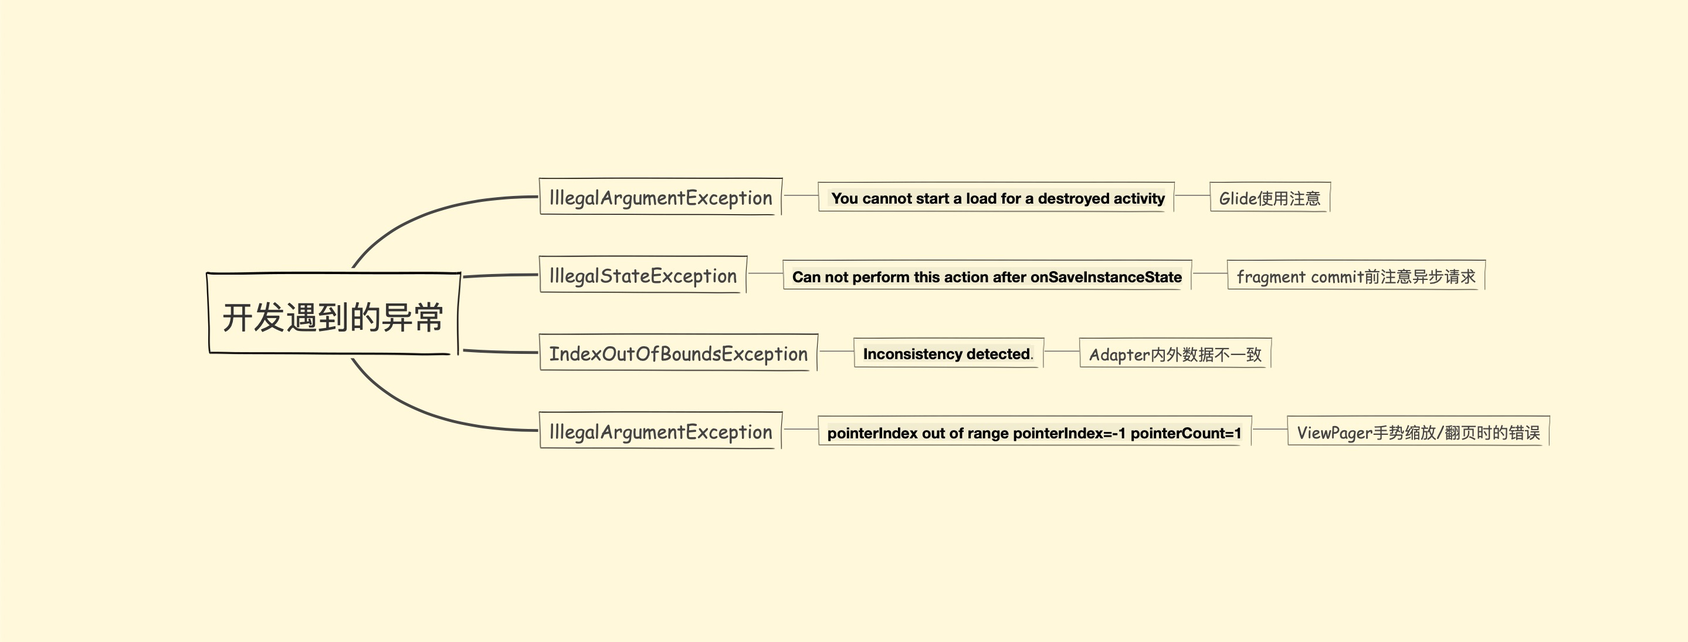
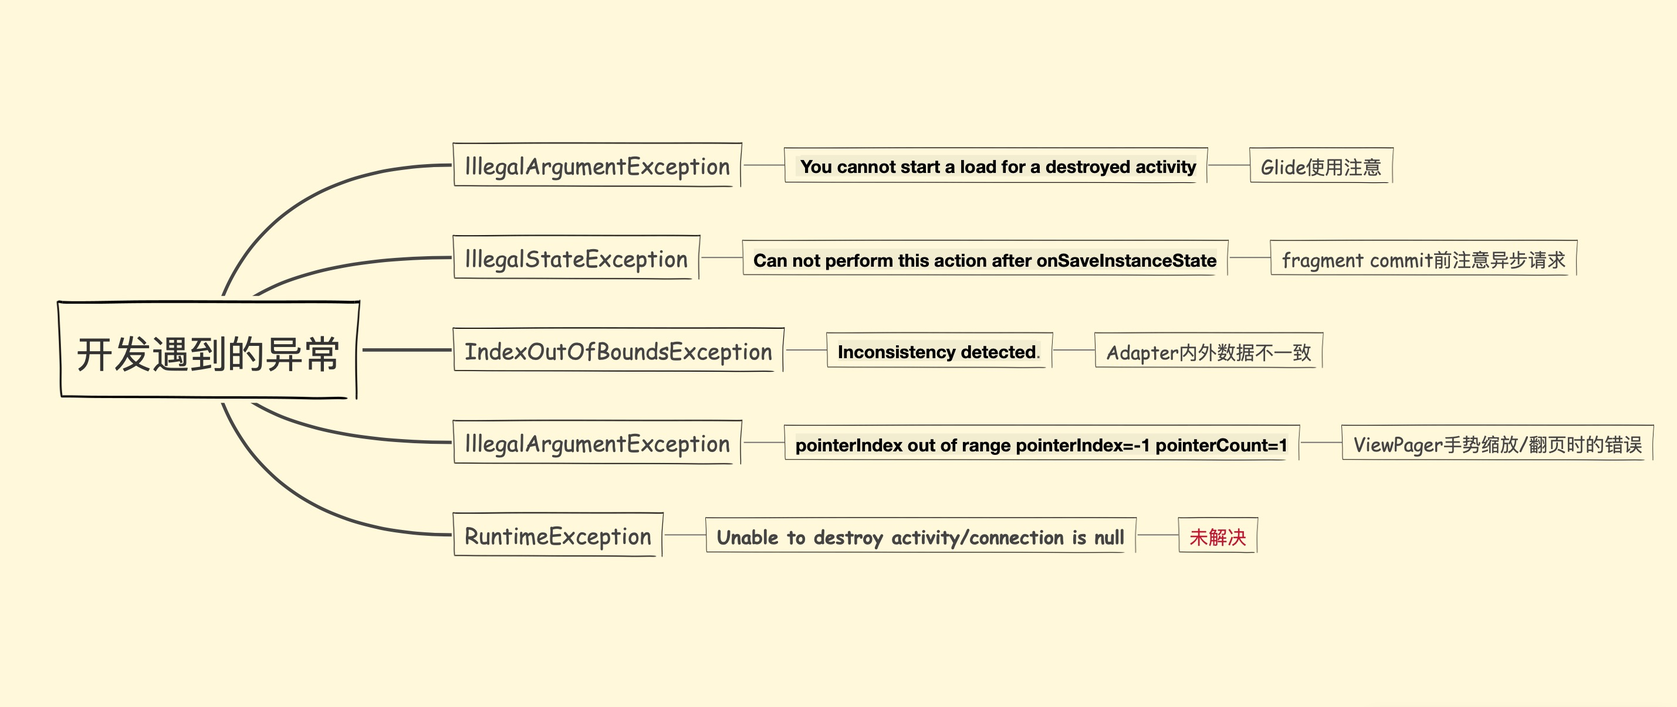
Site updated: 2019-12-31 12:02:57

diff --git a/2019/12/26/Android开发遇到的异常整理/index.html b/2019/12/26/Android开发遇到的异常整理/index.html
@@ -194,9 +194,7 @@
         <div class="post-content">
             <h3 id="前言"><a href="#前言" class="headerlink" title="前言"></a>前言</h3><p>记录在开发过程中遇到的不好找到问题的崩溃异常。</p>
 <h3 id="目录"><a href="#目录" class="headerlink" title="目录"></a>目录</h3><p><img src="/2019/12/26/Android%E5%BC%80%E5%8F%91%E9%81%87%E5%88%B0%E7%9A%84%E5%BC%82%E5%B8%B8%E6%95%B4%E7%90%86/%E7%9B%AE%E5%BD%95%E7%BB%93%E6%9E%84.jpg" alt="目录结构"></p>
-<h3 id="IllegalArgumentException"><a href="#IllegalArgumentException" class="headerlink" title="IllegalArgumentException"></a>IllegalArgumentException</h3><blockquote>
-<p>java.lang.IllegalArgumentException: <strong>You cannot start a load for a destroyed activity</strong><br>   at com.bumptech.glide.manager.RequestManagerRetriever.assertNotDestroyed(RequestManagerRetriever.java:134)<br>   at com.bumptech.glide.manager.RequestManagerRetriever.get(RequestManagerRetriever.java:102)<br>   at com.bumptech.glide.Glide.with(Glide.java:653)</p>
-</blockquote>
+<h3 id="IllegalArgumentException"><a href="#IllegalArgumentException" class="headerlink" title="IllegalArgumentException"></a>IllegalArgumentException</h3><figure class="highlight plain"><table><tr><td class="gutter"><pre><span class="line">1</span><br><span class="line">2</span><br><span class="line">3</span><br><span class="line">4</span><br></pre></td><td class="code"><pre><span class="line">java.lang.IllegalArgumentException: You cannot start a load for a destroyed activity</span><br><span class="line">   at com.bumptech.glide.manager.RequestManagerRetriever.assertNotDestroyed(RequestManagerRetriever.java:134)</span><br><span class="line">   at com.bumptech.glide.manager.RequestManagerRetriever.get(RequestManagerRetriever.java:102)</span><br><span class="line">   at com.bumptech.glide.Glide.with(Glide.java:653)</span><br></pre></td></tr></table></figure>
 <h5 id="场景"><a href="#场景" class="headerlink" title="场景"></a>场景</h5><pre><code>当你的Activity重新创建并且Glide中的context是旧的时候，最容易出现。
 换言之，context已经不在，但是异步处理刚回调到主线程更新UI，便会报异常</code></pre><h5 id="解决"><a href="#解决" class="headerlink" title="解决"></a>解决</h5><pre><code>问题发生在当前组件的上下文对象(Context)已经不存在，即围绕context做处理</code></pre><ul>
 <li><strong>方案一</strong><br>  使用控件的context，比如adapter中   <figure class="highlight plain"><table><tr><td class="gutter"><pre><span class="line">1</span><br></pre></td><td class="code"><pre><span class="line">viewholder.imag.getContext()</span><br></pre></td></tr></table></figure></li>
@@ -207,14 +205,10 @@
 </li>
 </ul>
 <hr>
-<h3 id="IllegalStateException"><a href="#IllegalStateException" class="headerlink" title="IllegalStateException"></a>IllegalStateException</h3><blockquote>
-<p>java.lang.IllegalStateException: <strong>Can not perform this action after onSaveInstanceState</strong><br>    at android.support.v4.app.FragmentManagerImpl.checkStateLoss(FragmentManager.java:2080)<br>    at android.support.v4.app.FragmentManagerImpl.enqueueAction(FragmentManager.java:2106)<br>    at android.support.v4.app.BackStackRecord.commitInternal(BackStackRecord.java:683)<br>    at android.support.v4.app.BackStackRecord.commit(BackStackRecord.java:637)<br>    …</p>
-</blockquote>
+<h3 id="IllegalStateException"><a href="#IllegalStateException" class="headerlink" title="IllegalStateException"></a>IllegalStateException</h3><figure class="highlight plain"><table><tr><td class="gutter"><pre><span class="line">1</span><br><span class="line">2</span><br><span class="line">3</span><br><span class="line">4</span><br><span class="line">5</span><br><span class="line">6</span><br></pre></td><td class="code"><pre><span class="line">java.lang.IllegalStateException: Can not perform this action after onSaveInstanceState</span><br><span class="line">    at android.support.v4.app.FragmentManagerImpl.checkStateLoss(FragmentManager.java:2080)</span><br><span class="line">    at android.support.v4.app.FragmentManagerImpl.enqueueAction(FragmentManager.java:2106)</span><br><span class="line">    at android.support.v4.app.BackStackRecord.commitInternal(BackStackRecord.java:683)</span><br><span class="line">    at android.support.v4.app.BackStackRecord.commit(BackStackRecord.java:637)</span><br><span class="line">    ...</span><br></pre></td></tr></table></figure>
 <h5 id="场景-1"><a href="#场景-1" class="headerlink" title="场景"></a>场景</h5><pre><code>该异常发生FragmentManager的commit方法是在Activity的onSaveInstanceState()之后调用时发生。（在commit之前进行了异步请求）
 原因是onSaveInstanceState()是在onDestroy()前调用来保存数据的，之后便不能再commit，故出错。</code></pre><h5 id="解决-1"><a href="#解决-1" class="headerlink" title="解决"></a>解决</h5><pre><code>commit()替换为commitAllowingStateLoss()</code></pre><hr>
-<h3 id="IndexOutOfBoundsException（Inconsistency-detected）"><a href="#IndexOutOfBoundsException（Inconsistency-detected）" class="headerlink" title="IndexOutOfBoundsException（Inconsistency detected）"></a>IndexOutOfBoundsException（Inconsistency detected）</h3><blockquote>
-<p>java.lang.IndexOutOfBoundsException: <strong>Inconsistency detected</strong>. Invalid view holder adapter positionViewHolder{2064e5c6 position=2 id=-1, oldPos=2, pLpos:-1 scrap [attachedScrap] tmpDetached no parent}<br>at android.support.v7.widget.RecyclerView Recycler.validateViewHolderForOffsetPosition(RecyclerView.java:4505)<br>at android.support.v7.widget.RecyclerView Recycler.getViewForPosition(RecyclerView.java:4636)<br>at android.support.v7.widget.RecyclerView Recycler.getViewForPosition(RecyclerView.java:4617)<br>at android.support.v7.widget.LinearLayoutManager$LayoutState.next(LinearLayoutManager.java:1994)<br>at android.support.v7.widget.LinearLayoutManager.layoutChunk(LinearLayoutManager.java:1390)<br>at android.support.v7.widget.LinearLayoutManager.fill(LinearLayoutManager.java:1353)<br>at android.support.v7.widget.LinearLayoutManager.onLayoutChildren(LinearLayoutManager.java:574)<br>at android.support.v7.widget.RecyclerView.dispatchLayoutStep1(RecyclerView.java:2979)<br>…</p>
-</blockquote>
+<h3 id="IndexOutOfBoundsException（Inconsistency-detected）"><a href="#IndexOutOfBoundsException（Inconsistency-detected）" class="headerlink" title="IndexOutOfBoundsException（Inconsistency detected）"></a>IndexOutOfBoundsException（Inconsistency detected）</h3><figure class="highlight plain"><table><tr><td class="gutter"><pre><span class="line">1</span><br><span class="line">2</span><br><span class="line">3</span><br><span class="line">4</span><br><span class="line">5</span><br><span class="line">6</span><br><span class="line">7</span><br><span class="line">8</span><br><span class="line">9</span><br><span class="line">10</span><br></pre></td><td class="code"><pre><span class="line">java.lang.IndexOutOfBoundsException: Inconsistency detected. Invalid view holder adapter positionViewHolder&#123;2064e5c6 position=2 id=-1, oldPos=2, pLpos:-1 scrap [attachedScrap] tmpDetached no parent&#125;</span><br><span class="line">    at android.support.v7.widget.RecyclerView Recycler.validateViewHolderForOffsetPosition(RecyclerView.java:4505)</span><br><span class="line">    at android.support.v7.widget.RecyclerView Recycler.getViewForPosition(RecyclerView.java:4636)</span><br><span class="line">    at android.support.v7.widget.RecyclerView Recycler.getViewForPosition(RecyclerView.java:4617)</span><br><span class="line">    at android.support.v7.widget.LinearLayoutManager$LayoutState.next(LinearLayoutManager.java:1994)</span><br><span class="line">    at android.support.v7.widget.LinearLayoutManager.layoutChunk(LinearLayoutManager.java:1390)</span><br><span class="line">    at android.support.v7.widget.LinearLayoutManager.fill(LinearLayoutManager.java:1353)</span><br><span class="line">    at android.support.v7.widget.LinearLayoutManager.onLayoutChildren(LinearLayoutManager.java:574)</span><br><span class="line">    at android.support.v7.widget.RecyclerView.dispatchLayoutStep1(RecyclerView.java:2979)</span><br><span class="line">    ...</span><br></pre></td></tr></table></figure>
 <h5 id="场景-2"><a href="#场景-2" class="headerlink" title="场景"></a>场景</h5><pre><code>该问题算是RecyclerView的错误。对adapter传入前的List先移除一条数据，然后又添加数据，之后再notify，就会报错。notify前，adapter内部的数据还是list移除数据前的List，内外数据不一致导致。
 即adapter内外数据不一致，从而报错。</code></pre><h5 id="解决-2"><a href="#解决-2" class="headerlink" title="解决"></a>解决</h5><ul>
 <li><strong>方案一</strong><br>  自己写一个继承LinearLayoutManager的包装类，在onLayoutChildren()方法里try-catch捕获该异常。  <figure class="highlight plain"><table><tr><td class="gutter"><pre><span class="line">1</span><br><span class="line">2</span><br><span class="line">3</span><br><span class="line">4</span><br><span class="line">5</span><br><span class="line">6</span><br><span class="line">7</span><br><span class="line">8</span><br></pre></td><td class="code"><pre><span class="line">@Override</span><br><span class="line">public void onLayoutChildren(RecyclerView.Recycler recycler, RecyclerView.State state) &#123;</span><br><span class="line">    try &#123;</span><br><span class="line">        super.onLayoutChildren(recycler, state);</span><br><span class="line">    &#125; catch (IndexOutOfBoundsException e) &#123;</span><br><span class="line">        e.printStackTrace();</span><br><span class="line">    &#125;</span><br><span class="line">&#125;</span><br></pre></td></tr></table></figure></li>
@@ -228,13 +222,15 @@
 <blockquote>
 <p>不要在列表滑动的时候去更新你的数据源</p>
 </blockquote>
-<h3 id="IllegalArgumentException-1"><a href="#IllegalArgumentException-1" class="headerlink" title="IllegalArgumentException"></a>IllegalArgumentException</h3><blockquote>
-<p>java.lang.IllegalArgumentException: <strong>pointerIndex out of range pointerIndex=-1 pointerCount=1</strong><br>    at android.view.MotionEvent.nativeGetAxisValue(MotionEvent.java)<br>    at android.view.MotionEvent.getX(MotionEvent.java:2216)<br>    at android.support.v4.view.ViewPager.onInterceptTouchEvent(ViewPager.java:2072)<br>    at android.view.ViewGroup.dispatchTouchEvent(ViewGroup.java:2582)<br>    at android.view.ViewGroup.dispatchTransformedTouchEvent(ViewGroup.java:3041)<br>    ….</p>
-</blockquote>
+<h3 id="IllegalArgumentException-1"><a href="#IllegalArgumentException-1" class="headerlink" title="IllegalArgumentException"></a>IllegalArgumentException</h3><figure class="highlight plain"><table><tr><td class="gutter"><pre><span class="line">1</span><br><span class="line">2</span><br><span class="line">3</span><br><span class="line">4</span><br><span class="line">5</span><br><span class="line">6</span><br><span class="line">7</span><br></pre></td><td class="code"><pre><span class="line">java.lang.IllegalArgumentException: pointerIndex out of range pointerIndex=-1 pointerCount=1</span><br><span class="line">    at android.view.MotionEvent.nativeGetAxisValue(MotionEvent.java)</span><br><span class="line">    at android.view.MotionEvent.getX(MotionEvent.java:2216)</span><br><span class="line">    at android.support.v4.view.ViewPager.onInterceptTouchEvent(ViewPager.java:2072)</span><br><span class="line">    at android.view.ViewGroup.dispatchTouchEvent(ViewGroup.java:2582)</span><br><span class="line">    at android.view.ViewGroup.dispatchTransformedTouchEvent(ViewGroup.java:3041)</span><br><span class="line">    ....</span><br></pre></td></tr></table></figure>
 <h5 id="场景-3"><a href="#场景-3" class="headerlink" title="场景"></a>场景</h5><pre><code>原因不详，ViewPager手势缩放/翻页时的错误。</code></pre><h5 id="解决-3"><a href="#解决-3" class="headerlink" title="解决"></a>解决</h5><ul>
-<li>简单有效的方法，try-catch异常发生的地方。即继承ViewPager重写<strong>onTouchEvent()</strong> 和<strong>onInterceptTouchEvent()</strong> 两个方法<figure class="highlight plain"><table><tr><td class="gutter"><pre><span class="line">1</span><br><span class="line">2</span><br><span class="line">3</span><br><span class="line">4</span><br><span class="line">5</span><br><span class="line">6</span><br><span class="line">7</span><br><span class="line">8</span><br><span class="line">9</span><br><span class="line">10</span><br><span class="line">11</span><br><span class="line">12</span><br><span class="line">13</span><br><span class="line">14</span><br><span class="line">15</span><br><span class="line">16</span><br><span class="line">17</span><br><span class="line">18</span><br><span class="line">19</span><br><span class="line">20</span><br><span class="line">21</span><br><span class="line">22</span><br><span class="line">23</span><br><span class="line">24</span><br><span class="line">25</span><br><span class="line">26</span><br><span class="line">27</span><br><span class="line">28</span><br><span class="line">29</span><br><span class="line">30</span><br></pre></td><td class="code"><pre><span class="line">public class ViewPagerFixed extends android.support.v4.view.ViewPager &#123;</span><br><span class="line"> </span><br><span class="line">    public ViewPagerFixed(Context context) &#123;</span><br><span class="line">        super(context);</span><br><span class="line">    &#125;</span><br><span class="line"> </span><br><span class="line">    public ViewPagerFixed(Context context, AttributeSet attrs) &#123;</span><br><span class="line">        super(context, attrs);</span><br><span class="line">    &#125;</span><br><span class="line"> </span><br><span class="line">    @Override</span><br><span class="line">    public boolean onTouchEvent(MotionEvent ev) &#123;</span><br><span class="line">        try &#123;</span><br><span class="line">            return super.onTouchEvent(ev);</span><br><span class="line">        &#125; catch (IllegalArgumentException ex) &#123;</span><br><span class="line">            ex.printStackTrace();</span><br><span class="line">        &#125;</span><br><span class="line">        return false;</span><br><span class="line">    &#125;</span><br><span class="line"> </span><br><span class="line">    @Override</span><br><span class="line">    public boolean onInterceptTouchEvent(MotionEvent ev) &#123;</span><br><span class="line">        try &#123;</span><br><span class="line">            return super.onInterceptTouchEvent(ev);</span><br><span class="line">        &#125; catch (IllegalArgumentException ex) &#123;</span><br><span class="line">            ex.printStackTrace();</span><br><span class="line">        &#125;</span><br><span class="line">        return false;</span><br><span class="line">    &#125;</span><br><span class="line">&#125;</span><br></pre></td></tr></table></figure></li>
-</ul>
+<li>简单有效的方法，try-catch异常发生的地方。即继承ViewPager重写<strong>onTouchEvent()</strong> 和<strong>onInterceptTouchEvent()</strong> 两个方法<figure class="highlight plain"><table><tr><td class="gutter"><pre><span class="line">1</span><br><span class="line">2</span><br><span class="line">3</span><br><span class="line">4</span><br><span class="line">5</span><br><span class="line">6</span><br><span class="line">7</span><br><span class="line">8</span><br><span class="line">9</span><br><span class="line">10</span><br><span class="line">11</span><br><span class="line">12</span><br><span class="line">13</span><br><span class="line">14</span><br><span class="line">15</span><br><span class="line">16</span><br><span class="line">17</span><br><span class="line">18</span><br><span class="line">19</span><br><span class="line">20</span><br><span class="line">21</span><br><span class="line">22</span><br><span class="line">23</span><br><span class="line">24</span><br><span class="line">25</span><br><span class="line">26</span><br><span class="line">27</span><br><span class="line">28</span><br><span class="line">29</span><br><span class="line">30</span><br></pre></td><td class="code"><pre><span class="line">public class ViewPagerFixed extends android.support.v4.view.ViewPager &#123;</span><br><span class="line"> </span><br><span class="line">    public ViewPagerFixed(Context context) &#123;</span><br><span class="line">        super(context);</span><br><span class="line">    &#125;</span><br><span class="line"> </span><br><span class="line">    public ViewPagerFixed(Context context, AttributeSet attrs) &#123;</span><br><span class="line">        super(context, attrs);</span><br><span class="line">    &#125;</span><br><span class="line"> </span><br><span class="line">    @Override</span><br><span class="line">    public boolean onTouchEvent(MotionEvent ev) &#123;</span><br><span class="line">        try &#123;</span><br><span class="line">            return super.onTouchEvent(ev);</span><br><span class="line">        &#125; catch (IllegalArgumentException ex) &#123;</span><br><span class="line">            ex.printStackTrace();</span><br><span class="line">        &#125;</span><br><span class="line">        return false;</span><br><span class="line">    &#125;</span><br><span class="line"> </span><br><span class="line">    @Override</span><br><span class="line">    public boolean onInterceptTouchEvent(MotionEvent ev) &#123;</span><br><span class="line">        try &#123;</span><br><span class="line">            return super.onInterceptTouchEvent(ev);</span><br><span class="line">        &#125; catch (IllegalArgumentException ex) &#123;</span><br><span class="line">            ex.printStackTrace();</span><br><span class="line">        &#125;</span><br><span class="line">        return false;</span><br><span class="line">    &#125;</span><br><span class="line">&#125;</span><br></pre></td></tr></table></figure>
 
+</li>
+</ul>
+<h3 id="RuntimeException"><a href="#RuntimeException" class="headerlink" title="RuntimeException"></a>RuntimeException</h3><figure class="highlight plain"><table><tr><td class="gutter"><pre><span class="line">1</span><br></pre></td><td class="code"><pre><span class="line">java.lang.RuntimeException: Unable to destroy activity &#123;com.kyne.mac.roadcloud/com.kyne.mac.roadcloud.framwork.MainActivity&#125;: java.lang.IllegalArgumentException: connection is null</span><br></pre></td></tr></table></figure>
+<h5 id="场景-4"><a href="#场景-4" class="headerlink" title="场景"></a>场景</h5><pre><code>原因不明确</code></pre><h5 id="解决-4"><a href="#解决-4" class="headerlink" title="解决"></a>解决</h5><pre><code>未解决
+目前处理是在unbindService(conn)的时候，增加if(!activity.isDestroyed()){}判断</code></pre>
         </div>
 
         
@@ -275,6 +271,8 @@
             </div>
         </section>
         <section class="post-nav">
+            
+                <a class="prev" rel="prev" href="/2019/12/27/ToolBar%E4%BD%BF%E7%94%A8%E5%8F%8A%E6%B3%A8%E6%84%8F%E4%BA%8B%E9%A1%B9/">ToolBar使用及注意事项</a>
             
             
             <a class="next" rel="next" href="/2019/12/24/Service%E6%95%B4%E7%90%86/">Service整理</a>

diff --git a/2019/12/27/ToolBar使用及注意事项/index.html b/2019/12/27/ToolBar使用及注意事项/index.html
@@ -1,0 +1,255 @@
+<!DOCTYPE html>
+<html lang="zn">
+<head>
+    <meta charset="UTF-8">
+<meta name="viewport"
+      content="width=device-width, initial-scale=1.0, maximum-scale=1.0, minimum-scale=1.0">
+<meta http-equiv="X-UA-Compatible" content="ie=edge">
+
+    <meta name="author" content="Kyne">
+
+
+
+
+
+<title>ToolBar使用及注意事项 | KyneZone</title>
+
+
+
+    <link rel="icon" href="/favicon.ico">
+
+
+
+
+    <!-- stylesheets list from _config.yml -->
+    
+    <link rel="stylesheet" href="/css/style.css">
+    
+
+
+
+    <!-- scripts list from _config.yml -->
+    
+    <script src="/js/script.js"></script>
+    
+    <script src="/js/tocbot.min.js"></script>
+    
+
+
+
+    
+    
+        
+    
+
+
+</head>
+<body>
+    <div class="wrapper">
+        <header>
+    <nav class="navbar">
+        <div class="container">
+            <div class="navbar-header header-logo"><a href="/">Kyne&#39;s Zone</a></div>
+            <div class="menu navbar-right">
+                
+                    <a class="menu-item" href="/archives">Posts</a>
+                
+                    <a class="menu-item" href="/category">Categories</a>
+                
+                    <a class="menu-item" href="/tag">Tags</a>
+                
+                    <a class="menu-item" href="/about">About</a>
+                
+                <input id="switch_default" type="checkbox" class="switch_default">
+                <label for="switch_default" class="toggleBtn"></label>
+            </div>
+
+        </div>
+    </nav>
+
+    
+    <nav class="navbar-mobile" id="nav-mobile">
+        <div class="container">
+            <div class="navbar-header">
+                <div>
+                    <a href="/">Kyne&#39;s Zone</a><a id="mobile-toggle-theme">·&nbsp;Light</a>
+                </div>
+                <div class="menu-toggle" onclick="mobileBtn()">&#9776; Menu</div>
+            </div>
+            <div class="menu" id="mobile-menu">
+                
+                    <a class="menu-item" href="/archives">Posts</a>
+                
+                    <a class="menu-item" href="/category">Categories</a>
+                
+                    <a class="menu-item" href="/tag">Tags</a>
+                
+                    <a class="menu-item" href="/about">About</a>
+                
+            </div>
+        </div>
+    </nav>
+
+</header>
+<script>
+    var mobileBtn = function f() {
+        var toggleMenu = document.getElementsByClassName("menu-toggle")[0];
+        var mobileMenu = document.getElementById("mobile-menu");
+        if(toggleMenu.classList.contains("active")){
+           toggleMenu.classList.remove("active")
+            mobileMenu.classList.remove("active")
+        }else{
+            toggleMenu.classList.add("active")
+            mobileMenu.classList.add("active")
+        }
+    }
+</script>
+        <div class="main">
+            <div class="container">
+    
+    
+        <div class="post-toc">
+    <div class="tocbot-list">
+    </div>
+    <div class="tocbot-list-menu">
+        <a class="tocbot-toc-expand" onclick="expand_toc()">Expand all</a>
+        <a onclick="go_top()">Back to top</a>
+        <a onclick="go_bottom()">Go to bottom</a>
+    </div>
+</div>
+
+<script>
+    document.ready(
+        function () {
+            tocbot.init({
+                tocSelector: '.tocbot-list',
+                contentSelector: '.post-content',
+                headingSelector: 'h1, h2, h3, h4, h5',
+                collapseDepth: 1,
+                orderedList: false,
+                scrollSmooth: true,
+            })
+        }
+    )
+
+    function expand_toc() {
+        var b = document.querySelector(".tocbot-toc-expand");
+        tocbot.init({
+            tocSelector: '.tocbot-list',
+            contentSelector: '.post-content',
+            headingSelector: 'h1, h2, h3, h4, h5',
+            collapseDepth: 6,
+            orderedList: false,
+            scrollSmooth: true,
+        });
+        b.setAttribute("onclick", "collapse_toc()");
+        b.innerHTML = "Collapse all"
+    }
+
+    function collapse_toc() {
+        var b = document.querySelector(".tocbot-toc-expand");
+        tocbot.init({
+            tocSelector: '.tocbot-list',
+            contentSelector: '.post-content',
+            headingSelector: 'h1, h2, h3, h4, h5',
+            collapseDepth: 1,
+            orderedList: false,
+            scrollSmooth: true,
+        });
+        b.setAttribute("onclick", "expand_toc()");
+        b.innerHTML = "Expand all"
+    }
+
+    function go_top() {
+        window.scrollTo(0, 0);
+    }
+
+    function go_bottom() {
+        window.scrollTo(0, document.body.scrollHeight);
+    }
+
+</script>
+    
+
+    
+    <article class="post-wrap">
+        <header class="post-header">
+            <h1 class="post-title">ToolBar使用及注意事项</h1>
+            
+                <div class="post-meta">
+                    
+                        Author: <a itemprop="author" rel="author" href="/">Kyne</a>
+                    
+
+                    
+                        <span class="post-time">
+                        Date: <a href="#">December 27, 2019&nbsp;&nbsp;11:08:56</a>
+                        </span>
+                    
+                    
+                </div>
+            
+        </header>
+
+        <div class="post-content">
+            <h3 id="前言"><a href="#前言" class="headerlink" title="前言"></a>前言</h3><h3 id="目录"><a href="#目录" class="headerlink" title="目录"></a>目录</h3><h3 id><a href="#" class="headerlink" title></a></h3>
+        </div>
+
+        
+            <section class="post-copyright">
+                
+                    <p class="copyright-item">
+                        <span>Author:</span>
+                        <span>Kyne</span>
+                    </p>
+                
+                
+                
+                    <p class="copyright-item">
+                        <span>License:</span>
+                        <span>Copyright (c) 2019 LICENSE</span>
+                    </p>
+                
+                
+                     <p class="copyright-item">
+                         <span>Slogan:</span>
+                         <span>Thinking is the proof of one's life.</span>
+                     </p>
+                
+
+            </section>
+        
+        <section class="post-tags">
+            <div>
+                <span>Tag(s):</span>
+                <span class="tag">
+                    
+                </span>
+            </div>
+            <div>
+                <a href="javascript:window.history.back();" target="_blank" rel="noopener">back</a>
+                <span>· </span>
+                <a href="/">home</a>
+            </div>
+        </section>
+        <section class="post-nav">
+            
+            
+            <a class="next" rel="next" href="/2019/12/26/Android%E5%BC%80%E5%8F%91%E9%81%87%E5%88%B0%E7%9A%84%E5%BC%82%E5%B8%B8%E6%95%B4%E7%90%86/">Android开发遇到的异常整理</a>
+            
+        </section>
+
+
+    </article>
+</div>
+
+        </div>
+        <footer id="footer" class="footer">
+    <div class="copyright">
+        <span>© Kyne | Powered by <a href="https://hexo.io" target="_blank">Hexo</a> & <a href="https://github.com/Siricee/hexo-theme-Chic" target="_blank">Chic</a></span>
+    </div>
+</footer>
+
+    </div>
+</body>
+</html>

diff --git a/archives/2019/12/index.html b/archives/2019/12/index.html
@@ -115,6 +115,15 @@
         
 
         <article class="archive-item">
+            <a class="archive-item-link" href="/2019/12/27/ToolBar%E4%BD%BF%E7%94%A8%E5%8F%8A%E6%B3%A8%E6%84%8F%E4%BA%8B%E9%A1%B9/">ToolBar使用及注意事项</a>
+            <span class="archive-item-date">December 27, 2019</span>
+        </article>
+    
+        
+
+        
+
+        <article class="archive-item">
             <a class="archive-item-link" href="/2019/12/26/Android%E5%BC%80%E5%8F%91%E9%81%87%E5%88%B0%E7%9A%84%E5%BC%82%E5%B8%B8%E6%95%B4%E7%90%86/">Android开发遇到的异常整理</a>
             <span class="archive-item-date">December 26, 2019</span>
         </article>

diff --git a/archives/2019/index.html b/archives/2019/index.html
@@ -115,6 +115,15 @@
         
 
         <article class="archive-item">
+            <a class="archive-item-link" href="/2019/12/27/ToolBar%E4%BD%BF%E7%94%A8%E5%8F%8A%E6%B3%A8%E6%84%8F%E4%BA%8B%E9%A1%B9/">ToolBar使用及注意事项</a>
+            <span class="archive-item-date">December 27, 2019</span>
+        </article>
+    
+        
+
+        
+
+        <article class="archive-item">
             <a class="archive-item-link" href="/2019/12/26/Android%E5%BC%80%E5%8F%91%E9%81%87%E5%88%B0%E7%9A%84%E5%BC%82%E5%B8%B8%E6%95%B4%E7%90%86/">Android开发遇到的异常整理</a>
             <span class="archive-item-date">December 26, 2019</span>
         </article>

diff --git a/archives/index.html b/archives/index.html
@@ -115,6 +115,15 @@
         
 
         <article class="archive-item">
+            <a class="archive-item-link" href="/2019/12/27/ToolBar%E4%BD%BF%E7%94%A8%E5%8F%8A%E6%B3%A8%E6%84%8F%E4%BA%8B%E9%A1%B9/">ToolBar使用及注意事项</a>
+            <span class="archive-item-date">December 27, 2019</span>
+        </article>
+    
+        
+
+        
+
+        <article class="archive-item">
             <a class="archive-item-link" href="/2019/12/26/Android%E5%BC%80%E5%8F%91%E9%81%87%E5%88%B0%E7%9A%84%E5%BC%82%E5%B8%B8%E6%95%B4%E7%90%86/">Android开发遇到的异常整理</a>
             <span class="archive-item-date">December 26, 2019</span>
         </article>
